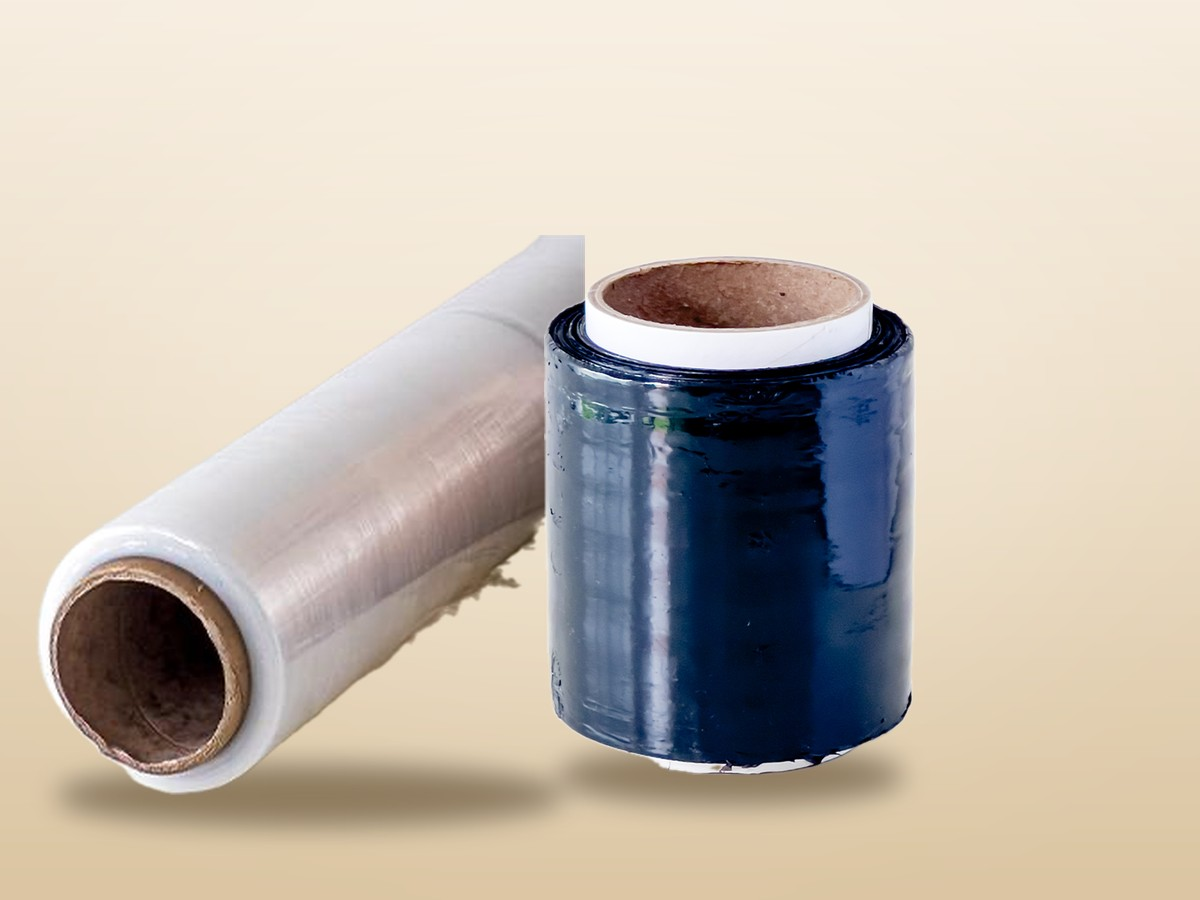
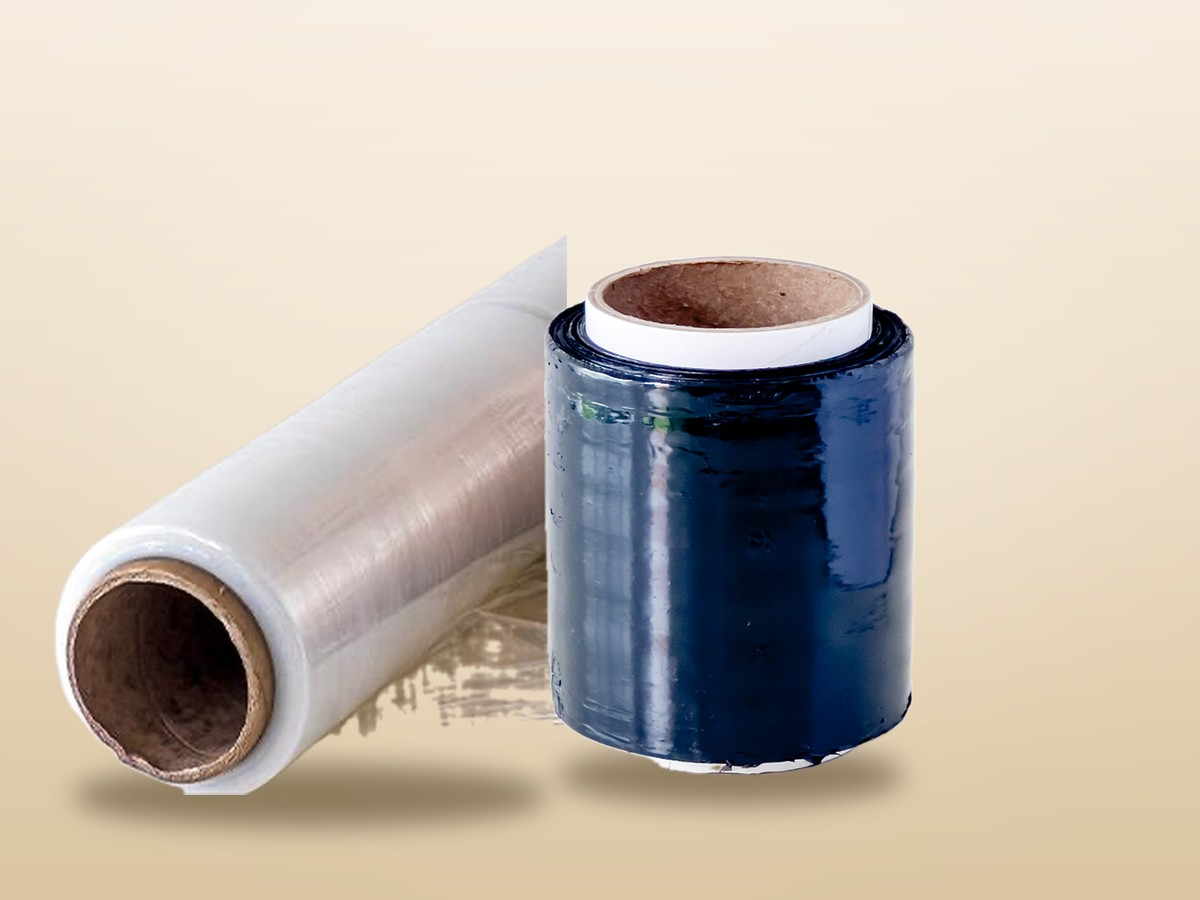
Corregir corte artificial en el rollo de stretch; recrear el tablero de Herramientas como ilustración propia (verde pino, metales realistas); agregar mención honesta de SATA

diff --git a/categorias/herramientas.html b/categorias/herramientas.html
@@ -3,8 +3,8 @@
 <head>
 <meta charset="UTF-8">
 <meta name="viewport" content="width=device-width, initial-scale=1.0">
-<title>Herramientas para Taller y Bodega | Insumos Hernández</title>
-<meta name="description" content="Herramientas para taller y bodega, disponibles por unidad o al por mayor en Pereira y el Eje Cafetero — un complemento a tu pedido de insumos de empaque.">
+<title>Herramientas SATA para Taller y Bodega | Insumos Hernández</title>
+<meta name="description" content="Herramientas SATA y otras marcas para taller y bodega, disponibles por unidad o al por mayor en Pereira y el Eje Cafetero — un complemento a tu pedido de insumos de empaque.">
 <link rel="canonical" href="https://insumosyembalajes.com.co/categorias/herramientas.html">
 <link rel="icon" href="/assets/img/favicon.ico" sizes="any">
 <link rel="icon" href="/assets/img/favicon-32.png" type="image/png" sizes="32x32">
@@ -16,14 +16,14 @@
 <link rel="apple-touch-icon" href="/assets/img/apple-touch-icon.png">
 <meta property="og:type" content="website">
 <meta property="og:site_name" content="Insumos Hernández">
-<meta property="og:title" content="Herramientas para Taller y Bodega | Insumos Hernández">
-<meta property="og:description" content="Herramientas para taller y bodega, disponibles por unidad o al por mayor en Pereira y el Eje Cafetero — un complemento a tu pedido de insumos de empaque.">
+<meta property="og:title" content="Herramientas SATA para Taller y Bodega | Insumos Hernández">
+<meta property="og:description" content="Herramientas SATA y otras marcas para taller y bodega, disponibles por unidad o al por mayor en Pereira y el Eje Cafetero — un complemento a tu pedido de insumos de empaque.">
 <meta property="og:url" content="https://insumosyembalajes.com.co/categorias/herramientas.html">
 <meta property="og:image" content="https://insumosyembalajes.com.co/assets/img/og-image.jpg">
 <meta property="og:locale" content="es_CO">
 <meta name="twitter:card" content="summary_large_image">
-<meta name="twitter:title" content="Herramientas para Taller y Bodega | Insumos Hernández">
-<meta name="twitter:description" content="Herramientas para taller y bodega, disponibles por unidad o al por mayor en Pereira y el Eje Cafetero — un complemento a tu pedido de insumos de empaque.">
+<meta name="twitter:title" content="Herramientas SATA para Taller y Bodega | Insumos Hernández">
+<meta name="twitter:description" content="Herramientas SATA y otras marcas para taller y bodega, disponibles por unidad o al por mayor en Pereira y el Eje Cafetero — un complemento a tu pedido de insumos de empaque.">
 <meta name="twitter:image" content="https://insumosyembalajes.com.co/assets/img/og-image.jpg">
 <link rel="stylesheet" href="/assets/css/tokens.css">
 <link rel="stylesheet" href="/assets/css/base.css">
@@ -76,8 +76,16 @@ height="0" width="0" style="display:none;visibility:hidden"></iframe></noscript>
         <p class="lead">Un complemento a tu pedido de insumos de empaque — herramientas para trabajos manuales y de taller, disponibles por unidad o al por mayor.</p>
       </div>
     </section>
+    <section class="section-tight">
+      <div class="container">
+        <div class="category-banner"><img src="/assets/img/cat-herramientas.jpg" alt="Tablero de herramientas de taller: llaves, pinzas, destornilladores, metro, martillo y cortador" width="1200" height="900" loading="eager"></div>
+      </div>
+    </section>
     <section class="section">
       <div class="container" style="max-width:700px;">
+        <p style="color:var(--ink-soft); font-size:15.5px; margin-bottom:14px;">
+          Manejamos herramientas SATA y otras marcas para taller y bodega: llaves, pinzas, destornilladores, metros, martillos y cortadores.
+        </p>
         <p style="color:var(--ink-soft); font-size:15.5px; margin-bottom:20px;">
           Cuéntanos qué necesitas por WhatsApp o en las notas de la Tienda y te confirmamos disponibilidad y precio.
         </p>

diff --git a/tienda.html b/tienda.html
@@ -168,7 +168,7 @@ height="0" width="0" style="display:none;visibility:hidden"></iframe></noscript>
           <a class="cat-card" href="/categorias/zunchado.html"><div class="cat-body"><h3>Zunchado</h3><p>Zuncho plástico y grapas plásticas o metálicas.</p><span class="cat-link">Ver especificaciones →</span></div></a>
           <a class="cat-card" href="/categorias/plastico-stretch.html"><div class="cat-body"><h3>Plástico stretch</h3><p>Vinipel 40cm por rollo.</p><span class="cat-link">Ver especificaciones →</span></div></a>
           <a class="cat-card" href="/categorias/papeleria.html"><div class="cat-body"><h3>Papelería</h3><p>Artículos de oficina y escolares.</p><span class="cat-link">Ver especificaciones →</span></div></a>
-          <a class="cat-card" href="/categorias/herramientas.html"><div class="cat-body"><h3>Herramientas</h3><p>Para taller y bodega.</p><span class="cat-link">Ver especificaciones →</span></div></a>
+          <a class="cat-card" href="/categorias/herramientas.html"><div class="cat-body"><h3>Herramientas</h3><p>SATA y otras marcas, para taller y bodega.</p><span class="cat-link">Ver especificaciones →</span></div></a>
         </div>
       </div>
     </section>

diff --git a/index.html b/index.html
@@ -118,8 +118,8 @@ height="0" width="0" style="display:none;visibility:hidden"></iframe></noscript>
             <div class="cat-body"><h3>Papelería</h3><p>Artículos de oficina y escolares al por mayor para tu empresa.</p><span class="cat-link">Ver productos →</span></div>
           </a>
           <a class="cat-card" href="/categorias/herramientas.html">
-            <div class="cat-media"><img src="/assets/img/cat-herramientas.jpg" alt="Herramientas para taller y bodega: martillo, taladro, llaves y cinta" loading="lazy"></div>
-            <div class="cat-body"><h3>Herramientas</h3><p>Para taller y bodega — un complemento a tu pedido de insumos.</p><span class="cat-link">Ver productos →</span></div>
+            <div class="cat-media"><img src="/assets/img/cat-herramientas.jpg" alt="Herramientas SATA para taller y bodega: llaves, pinzas, destornilladores, metro, martillo y cinta" loading="lazy"></div>
+            <div class="cat-body"><h3>Herramientas</h3><p>SATA y otras marcas, para taller y bodega.</p><span class="cat-link">Ver productos →</span></div>
           </a>
         </div>
       </div>

diff --git a/tools/make_herramientas.py b/tools/make_herramientas.py
@@ -1,0 +1,312 @@
+#!/usr/bin/env python3
+"""
+Recreación ilustrada (NO foto real) de un tablero de herramientas de taller.
+Usa una marca inventada de aspecto similar a marcas profesionales de
+herramientas (no reproduce ningún logo real) — solo para representar la
+categoría mientras no haya foto propia del inventario real.
+"""
+from PIL import Image, ImageDraw, ImageFont, ImageFilter, ImageChops
+import math
+
+W, H = 1200, 900
+PINE_TOP = (46, 92, 66)
+PINE_BOT = (18, 42, 30)
+BOARD_HOLE = (12, 28, 20)
+ACCENT = (196, 62, 46)
+BRASS = (196, 158, 84)
+BRASS_DK = (120, 92, 42)
+STEEL_HI = (245, 247, 249)
+STEEL_MID = (188, 194, 200)
+STEEL_LO = (95, 101, 108)
+HANDLE = (82, 56, 34)
+HANDLE_HI = (120, 86, 54)
+
+canvas = Image.new("RGB", (W, H), (14, 18, 16))
+d = ImageDraw.Draw(canvas, "RGBA")
+
+# --- pegboard panel: pine-green vertical gradient + subtle wood-grain noise ---
+pad = 40
+board = Image.new("RGB", (W - 2 * pad, H - 2 * pad))
+bd = ImageDraw.Draw(board)
+bh = board.height
+for y in range(bh):
+    t = y / (bh - 1)
+    bd.line([(0, y), (board.width, y)], fill=tuple(int(PINE_TOP[i] + (PINE_BOT[i] - PINE_TOP[i]) * t) for i in range(3)))
+# soft top-left sheen
+sheen = Image.new("L", board.size, 0)
+ImageDraw.Draw(sheen).ellipse((-200, -250, board.width * .7, board.height * .55), fill=45)
+sheen = sheen.filter(ImageFilter.GaussianBlur(140))
+board = ImageChops.add(board, Image.merge("RGB", (sheen, sheen, sheen)))
+bdraw = ImageDraw.Draw(board)
+for gy in range(30, board.height - 10, 46):
+    for gx in range(30, board.width - 10, 46):
+        bdraw.ellipse((gx - 4, gy - 4, gx + 4, gy + 4), fill=BOARD_HOLE)
+        bdraw.ellipse((gx - 4, gy - 4, gx, gy), fill=(0, 0, 0, 40))
+
+mask = Image.new("L", board.size, 0)
+ImageDraw.Draw(mask).rounded_rectangle((0, 0, board.width - 1, board.height - 1), 18, fill=255)
+canvas.paste(board, (pad, pad), mask)
+d.rounded_rectangle((pad, pad, W - pad, H - pad), 18, outline=(8, 16, 11), width=3)
+
+
+def metal_strip(w, h, base_hi=STEEL_HI, base_mid=STEEL_MID, base_lo=STEEL_LO, vertical=False):
+    im = Image.new("RGB", (w, h))
+    dd = ImageDraw.Draw(im)
+    n = h if vertical else w
+    for i in range(n):
+        t = i / max(1, n - 1)
+        # two-band brushed-metal highlight curve
+        v = abs(math.sin(t * math.pi * 1.6 + 0.4))
+        c = tuple(int(base_lo[k] + (base_hi[k] - base_lo[k]) * (0.25 + 0.75 * v)) for k in range(3))
+        if t > 0.55:
+            c = tuple(int(c[k] * (0.55 + 0.45 * (1 - (t - 0.55) / 0.45))) for k in range(3))
+        if vertical:
+            dd.line([(0, i), (w, i)], fill=c)
+        else:
+            dd.line([(i, 0), (i, h)], fill=c)
+    return im
+
+
+def drop_shadow(canvas_img, mask_im, pos, blur=16, opacity=140, offset=(6, 10)):
+    sh = Image.new("RGBA", canvas_img.size, (0, 0, 0, 0))
+    black = Image.new("RGBA", mask_im.size, (5, 15, 9, opacity))
+    sh.paste(black, (pos[0] + offset[0], pos[1] + offset[1]), mask_im)
+    sh = sh.filter(ImageFilter.GaussianBlur(blur))
+    canvas_img.alpha_composite(sh) if canvas_img.mode == "RGBA" else canvas_img.paste(
+        Image.alpha_composite(canvas_img.convert("RGBA"), sh).convert("RGB"), (0, 0))
+
+
+base = canvas.convert("RGBA")
+
+
+def stamp(piece, pos, shadow_blur=14, shadow_opacity=130, shadow_offset=(5, 9)):
+    alpha = piece.split()[3]
+    drop_shadow(base, alpha, pos, blur=shadow_blur, opacity=shadow_opacity, offset=shadow_offset)
+    base.alpha_composite(piece, pos)
+
+
+def peg(cx, top):
+    p = Image.new("RGBA", (26, 40), (0, 0, 0, 0))
+    pd = ImageDraw.Draw(p)
+    strip = metal_strip(10, 26, BRASS, (232, 205, 150), BRASS_DK)
+    p.paste(strip, (8, 12))
+    pd.ellipse((3, 0, 23, 16), fill=BRASS)
+    pd.ellipse((6, 2, 20, 12), fill=(232, 205, 150))
+    stamp(p, (cx - 13, top - 6), shadow_blur=6, shadow_opacity=110, shadow_offset=(3, 5))
+
+
+try:
+    fnt = ImageFont.truetype("/System/Library/Fonts/Helvetica.ttc", 16)
+    fnt_b = ImageFont.truetype("/System/Library/Fonts/HelveticaNeue.ttc", 30)
+except Exception:
+    fnt = ImageFont.load_default()
+    fnt_b = fnt
+
+
+def label(cx, y, text):
+    ld = ImageDraw.Draw(base)
+    tw = ld.textlength(text, font=fnt)
+    ld.rounded_rectangle((cx - tw / 2 - 10, y, cx + tw / 2 + 10, y + 26), 5, fill=(10, 20, 14, 215))
+    ld.text((cx - tw / 2, y + 4), text, font=fnt, fill=(230, 233, 230))
+
+
+def rounded_mask(size, radius):
+    m = Image.new("L", size, 0)
+    ImageDraw.Draw(m).rounded_rectangle((0, 0, size[0] - 1, size[1] - 1), radius, fill=255)
+    return m
+
+
+# ---------------- Wrench (chrome, realistic gradient) ----------------
+def wrench(cx, cy, ang=-16, L=210):
+    w, h = int(L * 1.55), int(L * 0.62)
+    piece = Image.new("RGBA", (w, h), (0, 0, 0, 0))
+    metal = metal_strip(w, h, vertical=False)
+    y = h // 2
+    bar_mask = Image.new("L", (w, h), 0)
+    bmd = ImageDraw.Draw(bar_mask)
+    bmd.rounded_rectangle((28, y - 11, w - 28, y + 11), 9, fill=255)
+    for x0 in (0, w - 66):
+        bmd.ellipse((x0, y - 30, x0 + 66, y + 30), fill=255)
+        bmd.ellipse((x0 + 17, y - 15, x0 + 49, y + 15), fill=0)
+    piece.paste(metal, (0, 0), bar_mask)
+    pd = ImageDraw.Draw(piece)
+    for x0 in (0, w - 66):
+        pd.ellipse((x0, y - 30, x0 + 66, y + 30), outline=(30, 34, 38, 160), width=2)
+    piece = piece.rotate(ang, expand=True, resample=Image.BICUBIC)
+    stamp(piece, (cx - piece.width // 2, cy - piece.height // 2))
+
+
+# ---------------- Pliers ----------------
+def pliers(cx, cy, ang=-6):
+    w, h = 170, 270
+    piece = Image.new("RGBA", (w, h), (0, 0, 0, 0))
+    pd = ImageDraw.Draw(piece)
+    pivot = (85, 122)
+
+    def jaw_arm(tip, handle_end, jaw_w):
+        jaw_mask = Image.new("L", (w, h), 0)
+        jd = ImageDraw.Draw(jaw_mask)
+        jd.line([tip, pivot], fill=255, width=jaw_w, joint="curve")
+        jaw_metal = metal_strip(w, h, vertical=True)
+        piece.paste(jaw_metal, (0, 0), jaw_mask)
+        hgrad = Image.new("RGBA", (w, h), (0, 0, 0, 0))
+        hd = ImageDraw.Draw(hgrad)
+        hd.line([pivot, handle_end], fill=HANDLE + (255,), width=24, joint="curve")
+        hd.line([pivot, ((pivot[0] + handle_end[0]) // 2, (pivot[1] + handle_end[1]) // 2)],
+                fill=HANDLE_HI + (255,), width=10, joint="curve")
+        piece.alpha_composite(hgrad)
+        pd.ellipse((handle_end[0] - 12, handle_end[1] - 12, handle_end[0] + 12, handle_end[1] + 12), fill=HANDLE)
+
+    jaw_arm((62, 4), (38, 258), 17)
+    jaw_arm((108, 4), (132, 258), 17)
+    pd.ellipse((pivot[0] - 15, pivot[1] - 15, pivot[0] + 15, pivot[1] + 15), fill=STEEL_MID, outline=(35, 38, 42), width=2)
+    pd.ellipse((pivot[0] - 6, pivot[1] - 9, pivot[0] + 2, pivot[1] - 1), fill=STEEL_HI)
+    piece = piece.rotate(ang, expand=True, resample=Image.BICUBIC)
+    stamp(piece, (cx - piece.width // 2, cy - piece.height // 2))
+
+
+# ---------------- Screwdriver ----------------
+def screwdriver(cx, cy, hcolor, ang=0, L=220):
+    w = 60
+    piece = Image.new("RGBA", (w, L), (0, 0, 0, 0))
+    shaft_mask = Image.new("L", (w, L), 0)
+    ImageDraw.Draw(shaft_mask).rectangle((23, 0, 37, L - 66), fill=255)
+    metal = metal_strip(w, L, vertical=True)
+    piece.paste(metal, (0, 0), shaft_mask)
+    pd = ImageDraw.Draw(piece)
+    hy0 = L - 72
+    for i in range(hy0, L):
+        t = (i - hy0) / (L - hy0)
+        shade = tuple(int(hcolor[k] * (0.65 + 0.5 * math.sin(t * math.pi))) for k in range(3))
+        pd.line([(12, i), (48, i)], fill=min(shade, (255, 255, 255)))
+    hmask = Image.new("L", (w, L), 0)
+    ImageDraw.Draw(hmask).rounded_rectangle((10, hy0, 50, L - 4), 14, fill=255)
+    grip = Image.new("RGBA", (w, L), (0, 0, 0, 0))
+    grip.paste(piece, (0, 0))
+    out = Image.new("RGBA", (w, L), (0, 0, 0, 0))
+    out.paste(piece, (0, 0), shaft_mask)
+    hbody = Image.new("RGBA", (w, L), (0, 0, 0, 0))
+    hbody.paste(Image.new("RGB", (w, L), hcolor), (0, 0), hmask)
+    hi = Image.new("L", (w, L), 0)
+    ImageDraw.Draw(hi).rounded_rectangle((14, hy0 + 4, 24, L - 8), 6, fill=90)
+    hbody.paste(Image.new("RGB", (w, L), (255, 255, 255)), (0, 0), hi)
+    out.alpha_composite(hbody)
+    ImageDraw.Draw(out).rounded_rectangle((10, hy0, 50, L - 4), 14, outline=(20, 20, 20, 150), width=2)
+    out = out.rotate(ang, expand=True, resample=Image.BICUBIC)
+    stamp(out, (cx - out.width // 2, cy - out.height // 2), shadow_blur=10)
+
+
+# ---------------- Tape measure ----------------
+def tape(cx, cy, r=76):
+    w = h = r * 2 + 10
+    piece = Image.new("RGBA", (w, h), (0, 0, 0, 0))
+    pd = ImageDraw.Draw(piece)
+    cx0 = cy0 = w // 2
+    pd.ellipse((cx0 - r, cy0 - r, cx0 + r, cy0 + r), fill=ACCENT)
+    hi = Image.new("L", (w, h), 0)
+    ImageDraw.Draw(hi).ellipse((cx0 - r + 8, cy0 - r + 6, cx0 + r * .3, cy0 + r * .1), fill=70)
+    hi = hi.filter(ImageFilter.GaussianBlur(18))
+    piece.paste(Image.new("RGB", (w, h), (255, 210, 200)), (0, 0), hi)
+    pd = ImageDraw.Draw(piece)
+    pd.ellipse((cx0 - r, cy0 - r, cx0 + r, cy0 + r), outline=(60, 20, 14), width=4)
+    inner = r - 17
+    pd.ellipse((cx0 - inner, cy0 - inner, cx0 + inner, cy0 + inner), fill=(238, 236, 228))
+    shade = Image.new("L", (w, h), 0)
+    ImageDraw.Draw(shade).ellipse((cx0 - inner, cy0 - inner + inner, cx0 + inner, cy0 + inner), fill=40)
+    piece.paste(Image.new("RGB", (w, h), (170, 168, 160)), (0, 0), shade)
+    pd = ImageDraw.Draw(piece)
+    pd.rectangle((cx0 + r - 34, cy0 - 15, cx0 + r + 28, cy0 + 15), fill=(238, 236, 228), outline=(120, 118, 112), width=2)
+    for i in range(6):
+        x = cx0 + r - 26 + i * 8
+        pd.line((x, cy0 - 11, x, cy0 + 11), fill=(70, 68, 64), width=2)
+    pd.text((cx0 - 20, cy0 - 12), "25ft", font=fnt, fill=(50, 48, 44))
+    stamp(piece, (cx - w // 2, cy - h // 2))
+
+
+# ---------------- Hammer ----------------
+def hammer(cx, cy, ang=-25):
+    w, h = 270, 130
+    piece = Image.new("RGBA", (w, h), (0, 0, 0, 0))
+    pd = ImageDraw.Draw(piece)
+    head_mask = Image.new("L", (w, h), 0)
+    hd = ImageDraw.Draw(head_mask)
+    hd.rounded_rectangle((0, 34, 78, 78), 10, fill=255)
+    hd.polygon([(0, 40), (-20, 56), (0, 72)], fill=255)
+    metal = metal_strip(w, h, vertical=False)
+    piece.paste(metal, (0, 0), head_mask)
+    pd.rounded_rectangle((0, 34, 78, 78), 10, outline=(25, 28, 30, 150), width=2)
+    handle_grad = Image.new("RGBA", (w, h), (0, 0, 0, 0))
+    hgd = ImageDraw.Draw(handle_grad)
+    hgd.rounded_rectangle((66, 48, 260, 64), 8, fill=HANDLE + (255,))
+    hgd.rounded_rectangle((66, 50, 260, 55), 4, fill=HANDLE_HI + (255,))
+    piece.alpha_composite(handle_grad)
+    piece = piece.rotate(ang, expand=True, resample=Image.BICUBIC)
+    stamp(piece, (cx - piece.width // 2, cy - piece.height // 2))
+
+
+# ---------------- Utility knife ----------------
+def knife(cx, cy, ang=20):
+    w, h = 230, 70
+    piece = Image.new("RGBA", (w, h), (0, 0, 0, 0))
+    pd = ImageDraw.Draw(piece)
+    bgrad = Image.new("RGBA", (w, h), (0, 0, 0, 0))
+    bd2 = ImageDraw.Draw(bgrad)
+    for i in range(160):
+        t = i / 160
+        c = tuple(int(ACCENT[k] * (0.7 + 0.5 * math.sin(t * math.pi))) for k in range(3))
+        bd2.line([(i, 15), (i, 45)], fill=min(c, (255, 255, 255)) + (255,))
+    mask = Image.new("L", (w, h), 0)
+    ImageDraw.Draw(mask).rounded_rectangle((0, 15, 160, 45), 10, fill=255)
+    piece.paste(bgrad, (0, 0), mask)
+    pd.rounded_rectangle((0, 15, 160, 45), 10, outline=(70, 20, 14, 180), width=2)
+    blade = metal_strip(70, 30, STEEL_HI, STEEL_MID, STEEL_LO, vertical=False)
+    bmask = Image.new("L", (70, 30), 0)
+    ImageDraw.Draw(bmask).polygon([(0, 3), (66, 12), (0, 27)], fill=255)
+    bpiece = Image.new("RGBA", (w, h), (0, 0, 0, 0))
+    bpiece.paste(blade, (155, 15), bmask)
+    piece.alpha_composite(bpiece)
+    piece = piece.rotate(ang, expand=True, resample=Image.BICUBIC)
+    stamp(piece, (cx - piece.width // 2, cy - piece.height // 2), shadow_blur=8)
+
+
+# layout on pegboard
+peg(230, 150); wrench(240, 245)
+peg(470, 145); pliers(470, 265)
+peg(660, 150); screwdriver(650, 260, (198, 60, 40), ang=-6, L=220)
+peg(720, 150); screwdriver(720, 250, (222, 178, 60), ang=4, L=190)
+peg(960, 160); tape(960, 250)
+peg(300, 470); hammer(340, 540)
+peg(870, 470); knife(870, 530)
+
+label(240, 400, "LLAVES")
+label(470, 420, "PINZAS")
+label(685, 400, "DESTORNILLADORES")
+label(960, 350, "METRO")
+label(340, 610, "MARTILLO")
+label(870, 590, "CORTADOR")
+
+# lower shelf with hardware texture (brass screws)
+shelf = Image.new("RGBA", (W - pad * 2 - 340, 60), (0, 0, 0, 0))
+sd = ImageDraw.Draw(shelf)
+sd.rounded_rectangle((0, 0, shelf.width - 1, 59), 10, fill=(14, 30, 20, 235))
+for i in range(24):
+    x = 30 + (i % 12) * 55
+    y = 8 + (i // 12) * 30
+    sd.ellipse((x, y, x + 18, y + 18), outline=BRASS_DK, width=2, fill=(180, 148, 82))
+    sd.ellipse((x + 5, y + 4, x + 10, y + 9), fill=(232, 205, 150))
+    sd.line((x + 4, y + 9, x + 14, y + 9), fill=BRASS_DK, width=2)
+stamp(shelf.convert("RGBA"), (pad + 40, H - 160), shadow_blur=10)
+
+# brand plate
+plate_w, plate_h = 260, 70
+plate = Image.new("RGBA", (plate_w, plate_h), (0, 0, 0, 0))
+pd = ImageDraw.Draw(plate)
+pd.rounded_rectangle((0, 0, plate_w - 1, plate_h - 1), 10, fill=(12, 16, 14, 240), outline=(70, 74, 80, 255), width=2)
+pd.rectangle((0, 0, 9, plate_h), fill=BRASS)
+pd.text((28, 10), "FORZA", font=fnt_b, fill=(240, 241, 242))
+pd.text((28, 44), "PROFESSIONAL TOOLS", font=fnt, fill=(190, 180, 150))
+stamp(plate, (W - pad - 40 - plate_w, H - pad - 40 - plate_h), shadow_blur=10)
+
+final = base.convert("RGB").filter(ImageFilter.SMOOTH_MORE)
+final.save("assets/img/cat-herramientas.jpg", quality=92, optimize=True, progressive=True)
+print("saved", final.size)

diff --git a/IMAGENES.md b/IMAGENES.md
@@ -24,5 +24,5 @@ Grapa metálica, Papel kraft. Papelería y Herramientas (categorías) tampoco ti
 - Rediseñadas como una sola escena de estudio (sin rejilla de tarjetas): `tools/make_category_scenes.py` genera `cat-cintas`, `cat-zunchado`, `cat-stretch`, `cat-papeleria` y `cat-carton` a partir de recortes reales en `tools/cutouts/`.
 - `cat-carton.jpg` sigue usando imágenes de referencia (corrugado, burbuja, yumbolón), ya recortadas y compuestas igual que las demás. Reemplazar los recortes cuando haya foto propia.
 - `banner-*.jpg` (3:1, para el encabezado de cada página de categoría) siguen con el estilo de rejilla anterior — pendiente aplicarles el mismo tratamiento si se quiere consistencia total.
-- `cat-herramientas.jpg` sigue siendo una imagen generada con IA: no hay foto real de herramientas todavía.
+- `cat-herramientas.jpg` ya no es una foto generada con IA — es una ILUSTRACIÓN propia (`tools/make_herramientas.py`, dibujada con PIL: gradientes metálicos, tablero verde pino, herrajes dorados) de un tablero de herramientas con una marca inventada ("FORZA"), no la marca real que distribuye el negocio. Se usa mientras no haya foto propia del inventario real. Confirmado con el negocio: sí distribuyen SATA.
 - `bodega-nosotros.jpg` (Nosotros) confirmado: la anterior era generada con IA. Se reemplazó por `tools/make_nosotros.py`, un mosaico de 3 fotogramas reales de los videos propios (manos aplicando cinta a una caja, papel burbuja envolviendo un mueble, cartón en movimiento).
